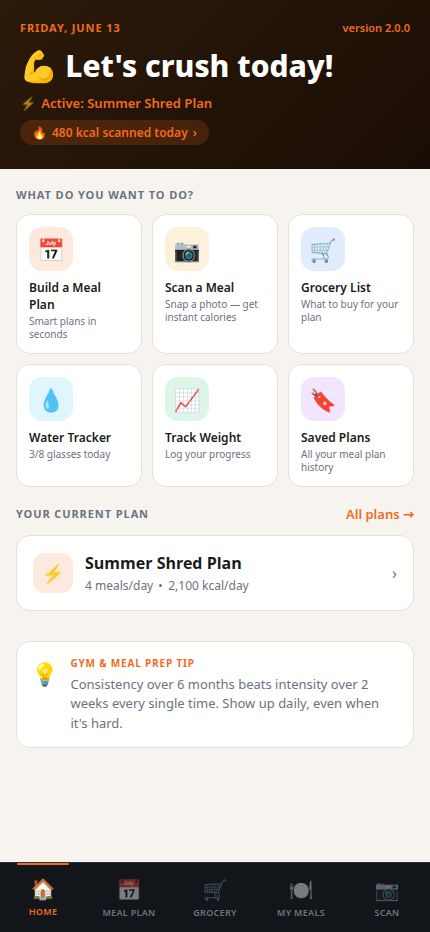
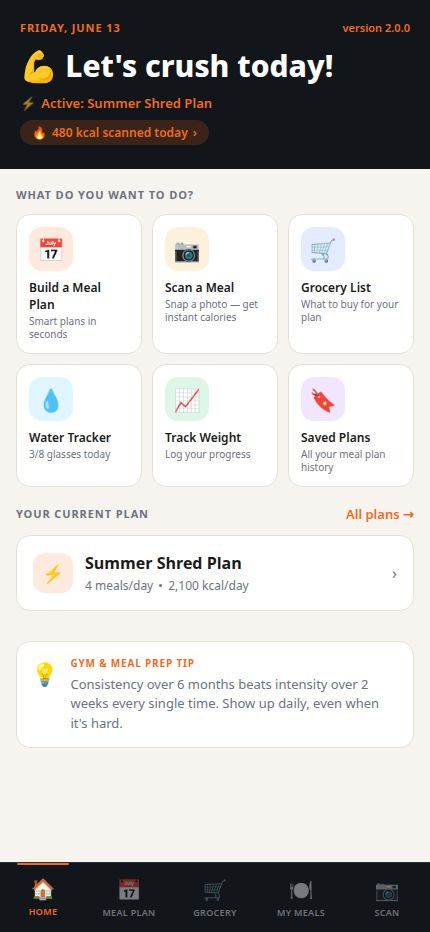
Update dashboard hero section to a darker shade for better visual balance
Adjusted the hero section's background color in `app-screens.html` and `index.tsx` from a warm brown to a darker tone (`#12151A`) to improve visual contrast and balance with the navigation bar.

Replit-Commit-Author: Agent
Replit-Commit-Session-Id: 366c8a42-eaa5-40fb-9545-b218c470b2f4
Replit-Commit-Checkpoint-Type: full_checkpoint
Replit-Commit-Event-Id: be49512f-d306-4b17-9479-640f0a3d7641
Replit-Commit-Screenshot-Url: https://storage.googleapis.com/screenshot-production-us-central1/840360d6-55f0-4f6a-9af5-ecb5804a7758/366c8a42-eaa5-40fb-9545-b218c470b2f4/JSopaiL
Replit-Helium-Checkpoint-Created: true

diff --git a/artifacts/meal-prep/public/app-screens.html b/artifacts/meal-prep/public/app-screens.html
@@ -122,7 +122,7 @@
      SCREEN 1 — HOME DASHBOARD
   ═══════════════════════════════════════════════════════ */
   .hero {
-    background: linear-gradient(135deg, #2C1A0A 0%, #1A0D05 100%);
+    background: #12151A;
     padding: 20px 20px 24px;
     color: #fff;
   }

diff --git a/artifacts/prepfit-android/app/(tabs)/index.tsx b/artifacts/prepfit-android/app/(tabs)/index.tsx
@@ -336,7 +336,7 @@ const styles = (colors: ReturnType<typeof useColors>) =>
 
     // Hero
     hero: {
-      backgroundColor: "#1C1208",
+      backgroundColor: "#12151A",
       paddingHorizontal: 20,
       paddingTop: 20,
       paddingBottom: 24,
